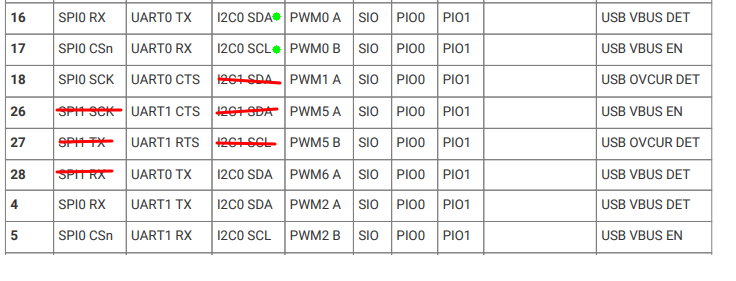
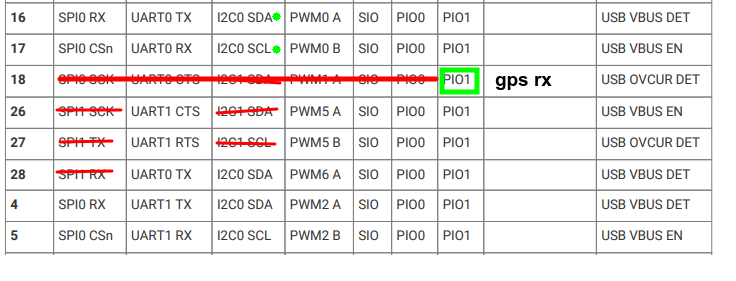
correct pin-making image

Changed region(s): [[0.0625, 0.2278, 0.75, 0.3416]]

diff --git a/c-example/freeWatch/GPS.h b/c-example/freeWatch/GPS.h
@@ -12,7 +12,7 @@
 
 #define SERIAL_BAUD 9600
 #define PIO_RX_PIN 18
-#define FIFO_SIZE 128
+#define FIFO_SIZE 256
 
 void GPS_init();
 
